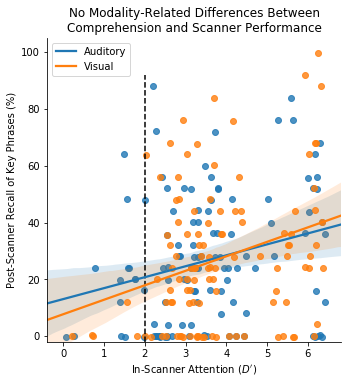
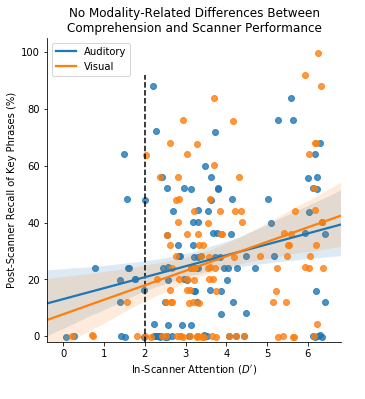
change task performance image

diff --git a/chapters/ch2.tex b/chapters/ch2.tex
@@ -19,10 +19,9 @@ Despite the clear overlap between reading and listening, there is also evidence 
 
 Most current cognitive models suggest that language comprehension requires the construction of a mental representation includes textual information and associated background knowledge, connected by some conscious and some unconscious executive processes \citep{Kendou2014}. The parallel model shown in Fig. \ref{fig:ch2-price-language-models} is linear: it moves from sensation to action. During comprehension, however, the relationship between areas is dynamic and constantly being re-evaluated. The roles of attention and executive systems are likely to play an important role. Thus, while there may be a core set of systems for manipulating and extracting meaning from language, it is likely that differences in modality would modulate these processes. 
 
-The pioneering researcher Alvin Liberman suggested that reading, instead of being parallel to listening, is actually parasitic: it requires an 
-textit{awareness} of the linguistic act that is not required in listening. Brain activation studies may not capture these differences: it could very well be the interactions of different functional systems that are changed, rather than the overall "engagement" of an individual brain area. Additionally, the fact that reading integrates in an additinoal modality could be a source of difference, especially in emerging readers. 
+The pioneering researcher Alvin Liberman suggested that reading, instead of being parallel to listening, is actually parasitic: it requires an textit{awareness} of the linguistic act that is not required in listening. Brain activation studies may not capture these differences: it could very well be the interactions of different functional systems that are changed, rather than the overall "engagement" of an individual brain area. Additionally, the fact that reading integrates in an additinoal modality could be a source of difference, especially in emerging readers. 
 
-In this study, we pursue three hypothesized ways reading might differ from listening. These are not exclusive; one or more of them may be true. The overarching aim is to test whether reading is simply listening skills
+In this study, we pursue three hypothesized ways reading might differ from listening. These are not exclusive; one or more of them may be true. The overarching aim is to test whether reading and listening differ only, or primarily, in their 
 
 \begin{itemize}
 	\item Reading will require a greater "global" reorganization of resting-state networks than listening. This network will also be more highly integrated than that of listening. 
@@ -30,12 +29,12 @@ In this study, we pursue three hypothesized ways reading might differ from liste
 	\item Reading will make greater demands on attention systems than listening. That is, areas in the frontal and attention systems will be activated to a greater degree during reading than listening.
 \end{itemize}
 
-First, we validate modularity and participation coefficient metrics using univariate data, and test that language induces greater global integration, especially in higher-order networks (executive + default mode) compared to resting and attention baselines. Second, we test three hypotheses about how interactions between brain networks might differ from speech. Finally, we investigate whether these interactions change with experience, testing whether the reading and listening systems "merge" into a unified system or whether differences between reading and listening persist across development.
+First, we validate modularity and participation coefficient metrics using univariate data, and test that language induces greater global integration, especially in higher-order networks (executive and attention) compared to resting and attention baselines. Second, we test three hypotheses about how interactions between brain networks might differ from speech.
 
 
 \section{Methods}
 
-The following methods detail the current study's protocol and analytical approach. Many of these methods will be used in future studies and are explained in detail here. 
+The following methods detail the current study's protocol and analytical approach. The following chapters borrow heavily from the methods described below, so they are explained here in detail. 
 
 \subsection{Participants}
 
@@ -50,7 +49,6 @@ All participants were native English speakers with normal hearing and normal or 
 	\caption[Participant demographics for Study 1.]
 	\label{table:ch2-participants}
 \end{table}
-
 
 \subsection{Functional MRI Task}
 
@@ -98,31 +96,26 @@ To investigate whole-brain patterns of connectivity without biasing our results 
 	\label{table:ch2-power-nodes}
 \end{table}
 
-Network estimation was performed in the \textit{Conn: Functional Connectivity Toolbox} (version 17f) \citep{Nieto-castanon}. For each scan run, the BOLD activity at each node was denoised using the anatomical CompCorr method, which regresses out background noise from white matter and cerebrospinal fluid tissue. We also regressed out 12 continuous measures of motion were also included, all outlier timepoints, and the effect of all task conditions ("pass", "attn", "rest"). The timeseries was then high-pass filtered at 0.01 Hz.
+To understand our univariate results as a function of RSN activation, we cast the activations into connectome space and reviewed each contrast according to the network affiliation of the corresponding nodes.
+
+For graph theory analyses, network estimation was performed in the \textit{Conn: Functional Connectivity Toolbox} (version 17f) \citep{Nieto-castanon}. For each scan run, the BOLD activity at each node was denoised using the anatomical CompCorr method, which regresses out background noise from white matter and cerebrospinal fluid tissue. We also regressed out 12 continuous measures of motion were also included, all outlier timepoints, and the effect of all task conditions ("pass", "attn", "rest"). The timeseries was then high-pass filtered at 0.01 Hz.
 
 Whole-brain connectomes for each condition were created by estimating the functional connectivity between each node using a weighted general linear model. For connection-level analyses, these values were compared directly across subjects and conditions. For graph theory analyses, the array of all node connections was thresholded to keep the top 5 percent of connections, resulting in a much sparser representation. This threshold was also tested at ranges from 2 percent to 10 percent.
 
-The metrics of interest were network \textit{modularity} and \textit{participation coefficient}. Modularity is high in networks where nodes within the same RSN are highly connected to each other but not elsewhere. The participation coefficient, on the other hand, is high when many nodes are connected to several different RSNs. Both of these metrics relate to the integration of information between RSNs. These properties, and their changes within our task, were investigated at the level of connectomes, RSNs and nodes. 
+The metrics of interest were network \textit{modularity}, \textit{participation coefficient} and \textit{path length}. Modularity is high in networks where nodes within the same RSN are highly connected to each other but not elsewhere. The participation coefficient, on the other hand, is high when many nodes are connected to several different RSNs. Both of these metrics relate to the integration of information between RSNs. Path length, on the other hand, describes the distance between any two nodes on the graph. This was calculated between every node, then summed up by RSN to create a measure of network distance. These properties, and their changes within our task, were investigated at the level of connectomes, RSNs and nodes. 
 
 
 \section{Results}
 
 \subsection{Behavioral results}
 
-42 subjects (142 scan runs) met the attention and motion criteria to be included in the analysis. (10 subjects and 61 individual scan runs were filtered out.) Attention and comprehension measures were not related to modality of stimulus presentation (see Figs. \ref{fig:ch2-eprime-recall} and \ref{fig:ch2-eprime-comprehension}). There was a trend towards difference in median FDRMS between scan modalities (paired t-test, $t = 1.94$, $p = 0.059$), so we also replicated analyses with a stricter motion threshold (no more than 10 percent outliers in a scan run), and analysis results were generally consistent.
+42 subjects (142 scan runs) met the attention and motion criteria to be included in the analysis. (10 subjects and 61 individual scan runs were filtered out.) Attention and comprehension measures were not related to modality of stimulus presentation (see Fig. \ref{fig:ch2-task-performance}). There was a trend towards difference in median FDRMS between scan modalities (paired t-test, $t = 1.94$, $p = 0.059$), so we also replicated analyses with a stricter motion threshold (no more than 10 percent outliers in a scan run). The main results from analysis of this 35 subject (116 scan runs) cohort were broadly consistent.
 
 \begin{figure}[t]
 	\centering
-	\includegraphics[height=3in]{ch2-eprime-recall}
-    \caption[Out-of-scanner pasage recall was unrelated to modality.]{}
-	\label{fig:ch2-eprime-recall}
-\end{figure}
-
-\begin{figure}[t]
-	\centering
-	\includegraphics[height=3in]{ch2-eprime-comprehension}
-    \caption[In-scanner comprehension performance did not differ by modality.]{}
-	\label{fig:ch2-eprime-comprehension}
+	\includegraphics[height=3in]{ch2-task-performance}
+    \caption[Behavioral metrics of passage performance were unrelated to modality.]{Both the in-scanner comprehension question and out-of-scanner recall questionnaire were unrelated to the modality of presentation.}
+	\label{fig:ch2-task-performance}
 \end{figure}
 
 \subsection{Activation results}

diff --git a/chapters/abstract.tex b/chapters/abstract.tex
@@ -3,7 +3,7 @@
 \begin{itemize}
 	\item \textbf{What we don't know:} What differentiates reading from listening, besides decoding? Are they simply different inputs to the same "language" system?
 	\item \textbf{Why we care:} Understanding the sub-processes that make reading unique will allow us to refine efforts to teach older readers and those who struggle with comprehension.
-	\item \textbf{How we'll address it:} By analyzing interactions between brain networks during language use and across different reading abilities, we will identify networks that are more involved in reading than current models would predict. 
+	\item \textbf{How we'll address it:} By analyzing interactions between brain networks during language use and across different reading levels, we will identify networks that are more involved in reading than current models would predict. 
 \end{itemize}
 
 We know that the single most important function in reading is \textit{decoding} visual stimuli into linguistic representations of words. Mastering this process creates permanent changes to brain structure and function, as well as to behavioral responses to speech. The dominant "parallel" model of reading suggests that this symbol-to-speech mapping process is the principal difference between reading and listening; that after feeding input "up" from visual or auditory systems, the linguistic processes are the same. However, many children struggle to comprehend text even after becoming proficient decoders, and there are clear differences in the nature of the modalities, including grammar, motor processes (e.g. eye movements), and differences in contextual information available (e.g. pitch, tone, rhythm in listening; peripheral words, recursive glances in reading). Therefore, decoding is not the only process that makes reading different from listening, but it is not clear which other cognitive processes might most contribute to reading success or failure. 
